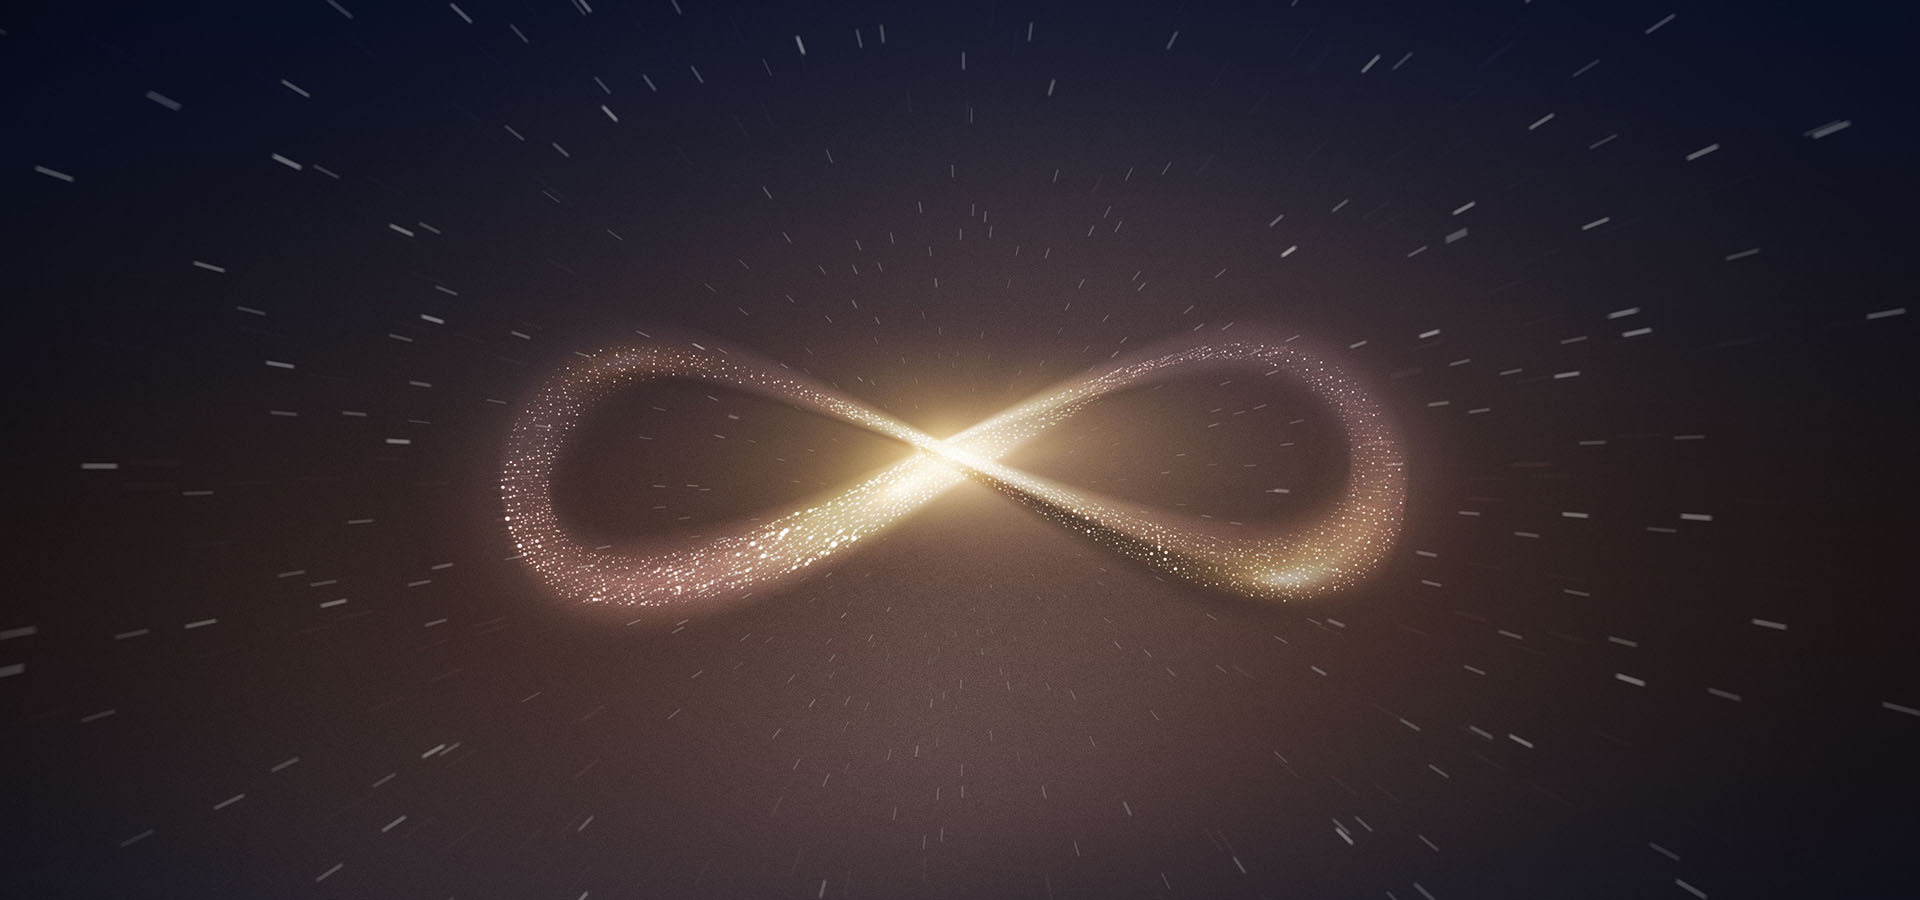
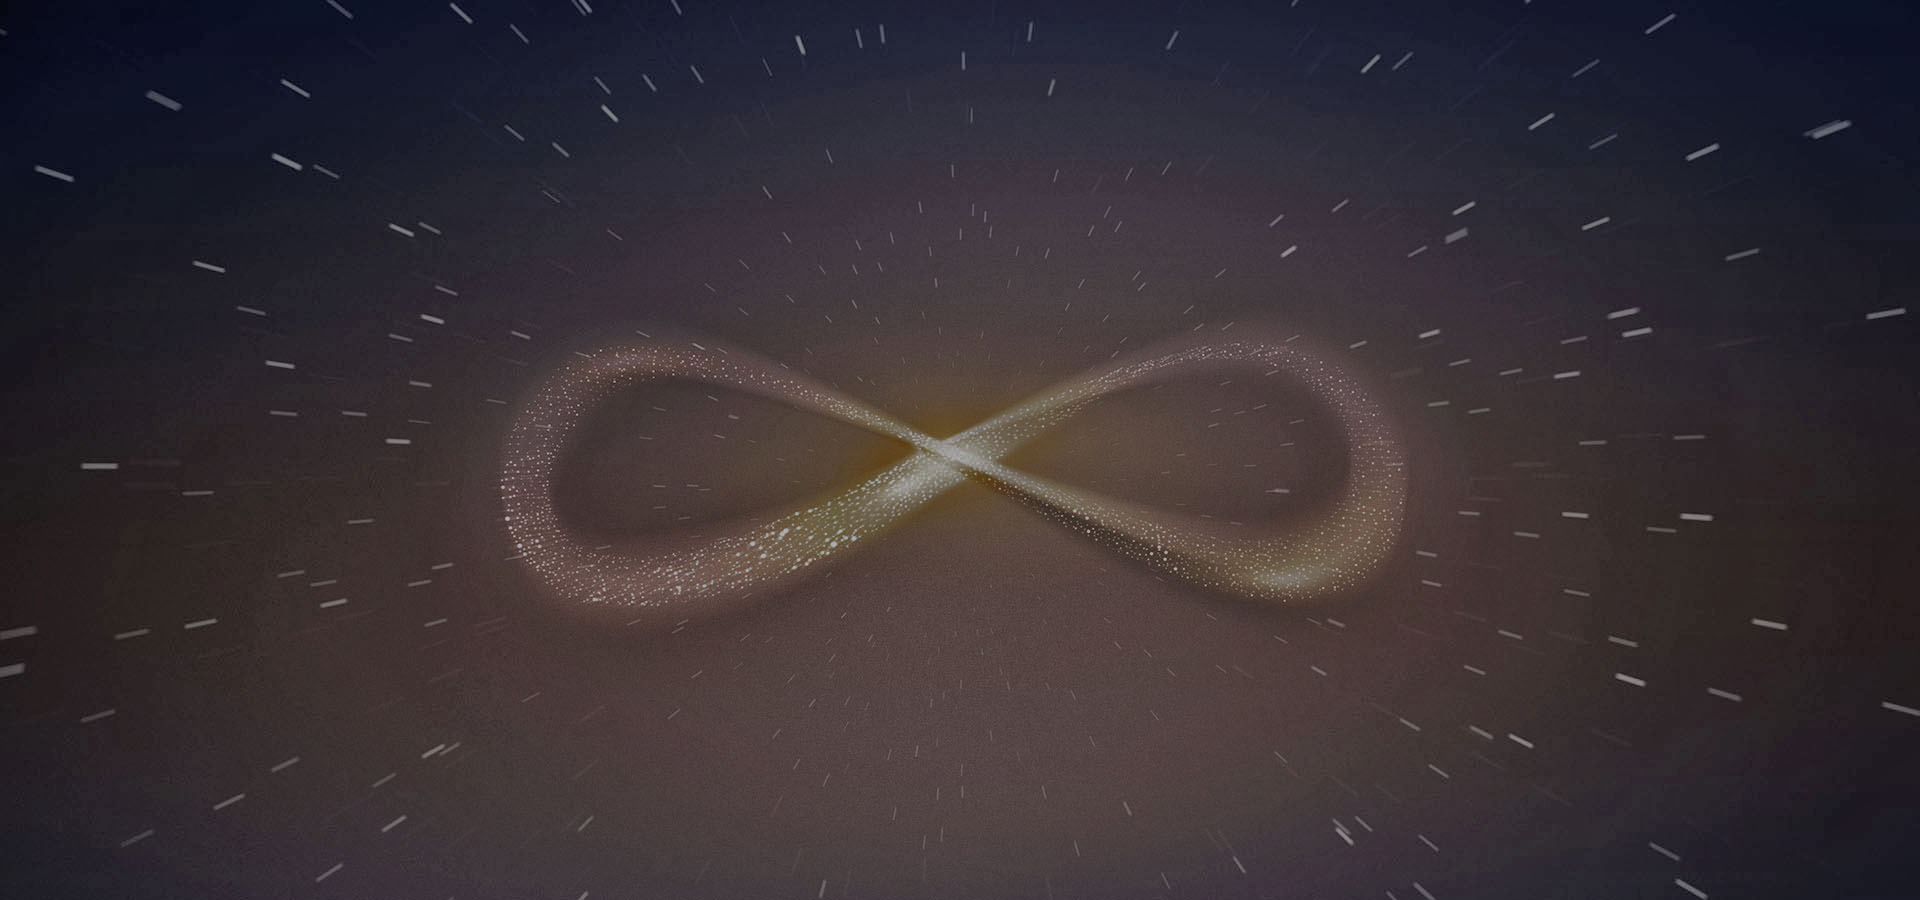
0

diff --git a/index.html b/index.html
@@ -173,7 +173,7 @@
                         <div class="opacity-medium z-index-1"></div>
 
                         <!-- MAIN IMAGE -->
-                        <img src="img/slider/slide2.jpg" alt="" data-bgrepeat="no-repeat" data-bgfit="cover"
+                        <img src="img/slider/slide4.jpg" alt="" data-bgrepeat="no-repeat" data-bgfit="cover"
                             data-bgparallax="7" class="rev-slidebg">
 
                         <!-- HERO TITLE -->
@@ -216,7 +216,6 @@
                             <p class="white-space">私たちはお客さまとの間に「ロングターム・リレーションシップ～長期にわたる揺るぎない関係性」を築き上げ、お客さまの夢や望みを実現します。
                             </p>
                         </div>
-
                     </li>
                     <!-- end slide 2 -->
 
